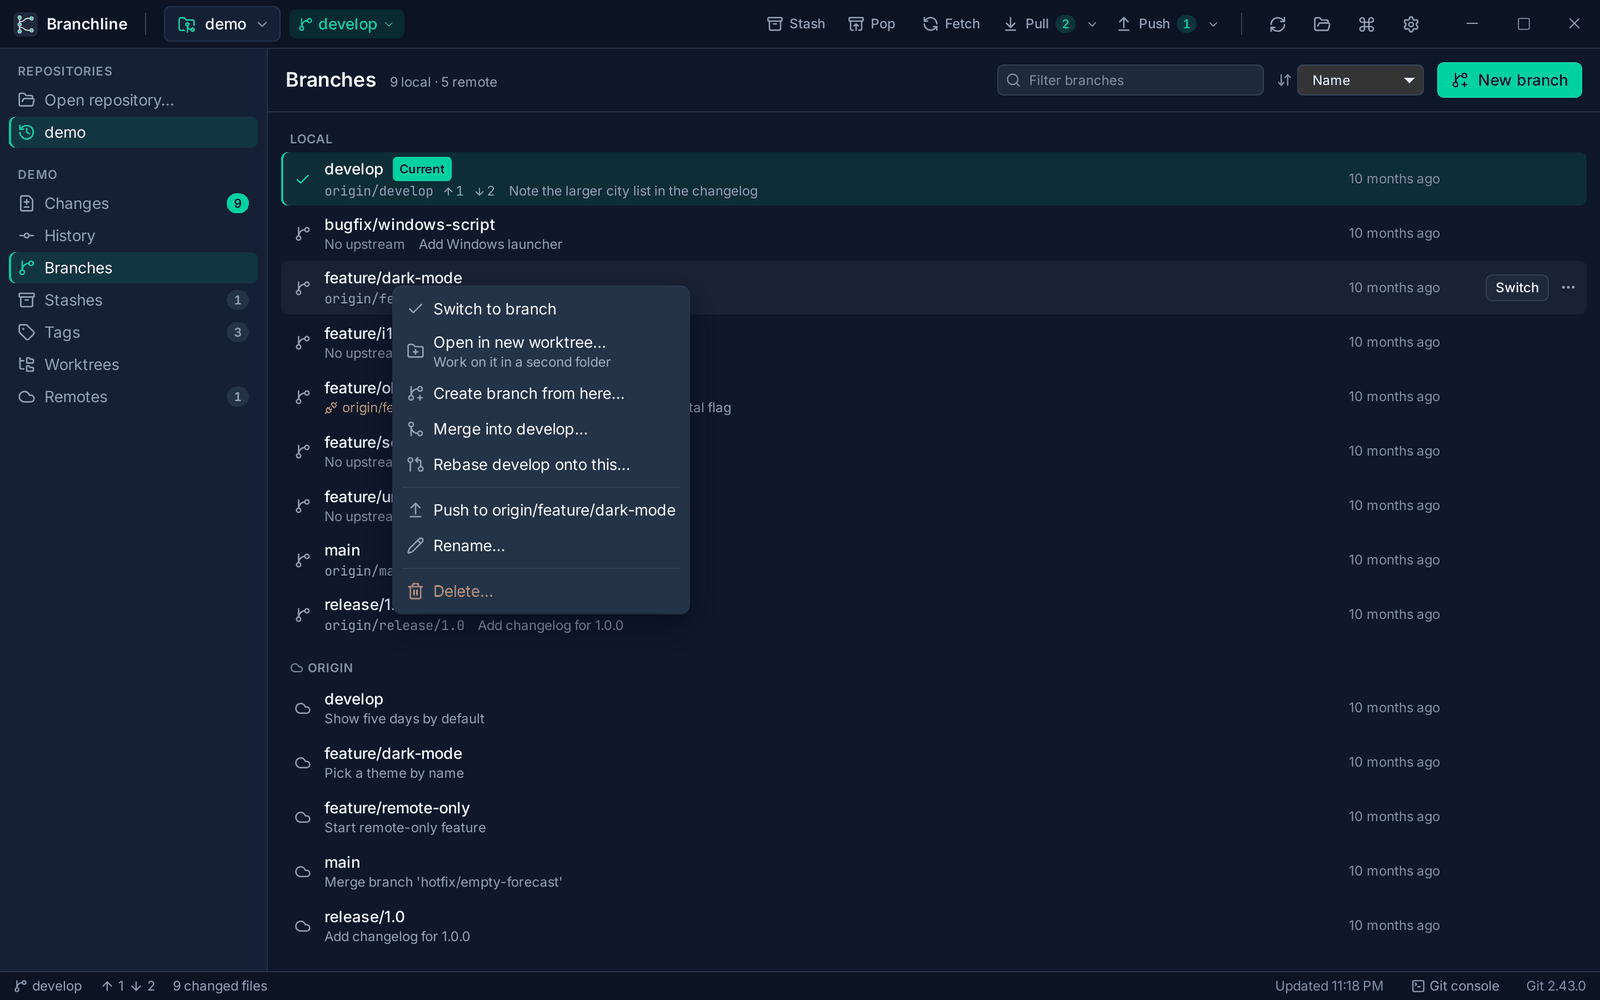
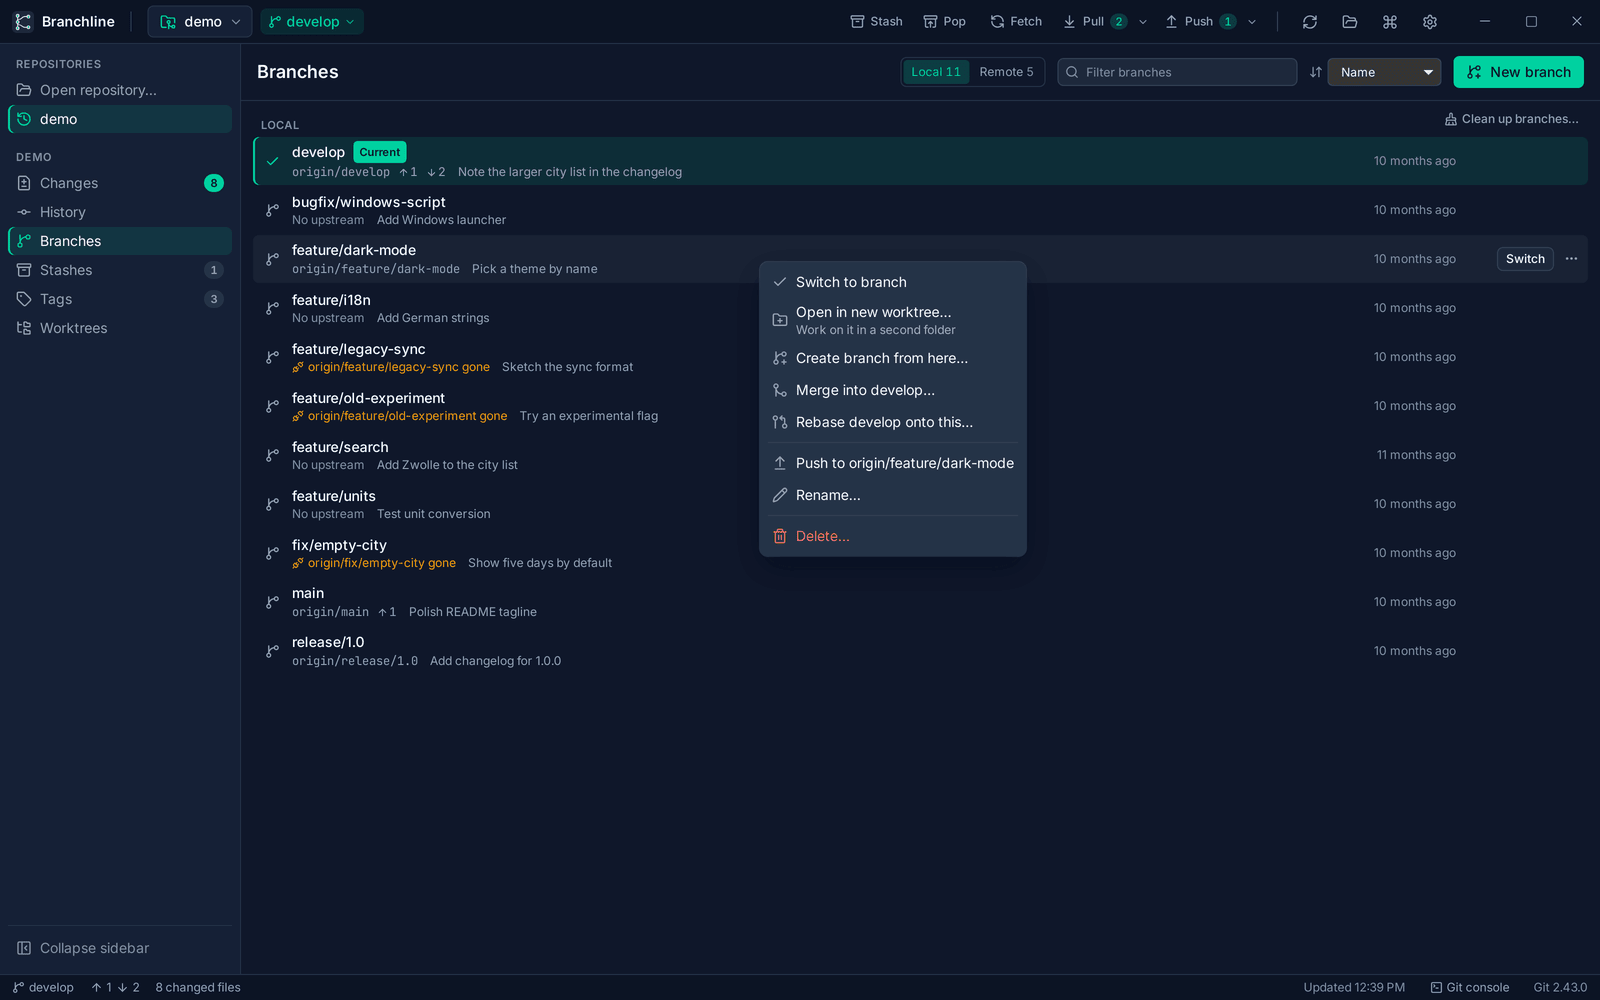
Update screenshots and README for 0.3.2
Retake the branches, quest, merge request, AI settings, commit box,
Git console and About screenshots, and add one of the Clean up
branches dialog. Describe the Local/Remote toggle, branch cleanup,
question counts, New questions and Restart in the README.

diff --git a/README.md b/README.md
@@ -56,13 +56,19 @@ action, branch and recent repository in a few letters.
 ### Branches and history, your way
 
 Create, switch, merge and rebase branches from a right-click, or drag one branch onto
-another. Clean up before you push with "Rewrite history": Branchline finds where your branch
-started, you drag commits into a new order and reword, squash or drop them, and squashed
-commits are shown grouped under the commit they go into. With AI on, it can suggest which
-commits belong together and write their messages.
+another. Switch between your local and remote branches with one toggle, and "Clean up
+branches" removes local branches whose upstream is gone once every commit is on the remote,
+with Undo; branches you never published stay. Tidy up before you push with "Rewrite
+history": Branchline finds where your branch started, you drag commits into a new order and
+reword, squash or drop them, and squashed commits are shown grouped under the commit they go
+into. With AI on, it can suggest which commits belong together and write their messages.
 
 <p align="center">
-  <img src="docs/screenshots/branches.png" alt="The Branches view with a branch menu open: switch, open in a new worktree, merge, rebase, push, rename and delete" width="49%">
+  <img src="docs/screenshots/branches.png" alt="The local branches with a branch menu open: switch, open in a new worktree, merge, rebase, push, rename and delete" width="49%">
+  <img src="docs/screenshots/branch-cleanup.png" alt="Clean up branches: two branches whose upstream was deleted are ready to delete, two with commits only on this computer are kept" width="49%">
+</p>
+
+<p align="center">
   <img src="docs/screenshots/rebase.png" alt="Rewrite history with an AI suggestion: two groups of fixed-up commits, each indented above the commit they go into, with a new message" width="49%">
 </p>
 
@@ -99,19 +105,22 @@ your system's password store. GitHub comes later.
 
 <p align="center">
   <img src="docs/screenshots/reviews.png" alt="The Reviews view with five merge requests waiting for review, showing their pipeline, comments, conflicts and approval" width="49%">
-  <img src="docs/screenshots/merge-request.png" alt="A merge request opened in Branchline: its changed files, two comment threads and the diff of api.py" width="49%">
+  <img src="docs/screenshots/merge-request.png" alt="A merge request opened in Branchline: its changed files, a comment thread on line 17, the Start review quest button and the diff of api.py" width="49%">
 </p>
 
 ### Review as a game, with an AI as game master
 
-Turn on AI and start a review quest: for every changed file the AI asks a few questions, from
-a quick quiz to "click the line that decides whether the cache is still fresh" to "what
-happens to memory when people look up many cities?". It responds to your answers, suggests
-review comments you can keep, and you earn points for thought and findings, never for speed.
-Play the same quest on your own branch before you open a merge request.
+Turn on AI and start a review quest: for every changed file the AI asks one to five
+questions, more for larger changes, from a quick quiz to "click the line that decides
+whether the cache is still fresh" to "what happens to memory when people look up many
+cities?". It responds to your answers, suggests review comments you can keep, and you earn
+points for thought and findings, never for speed. The questions for the next files are
+prepared while you play, and the number next to each file shows how many are waiting. Ask
+for new questions on a file, or restart the whole quest. Play the same quest on your own
+branch before you open a merge request.
 
 <p align="center">
-  <img src="docs/screenshots/quest.png" alt="A review quest: the AI responds to an open answer about the cache and suggests a review comment, above the diff of api.py, with 45 points earned" width="900">
+  <img src="docs/screenshots/quest.png" alt="A review quest: the AI responds to an open answer about the cache and suggests a review comment, above the diff of api.py, with 45 points earned and the number of questions next to each file" width="900">
 </p>
 
 ### Commit messages from the AI you choose
@@ -123,7 +132,7 @@ Only when you ask, and with AI turned off, no AI feature appears at all.
 
 <p align="center">
   <img src="docs/screenshots/ai-suggest.png" alt="A Conventional Commits message suggested for the staged changes, filled in the commit box" width="49%">
-  <img src="docs/screenshots/ai-settings.png" alt="The AI settings, connected to an Ollama server with a coding model chosen" width="49%">
+  <img src="docs/screenshots/ai-settings.png" alt="The AI settings, connected to an Ollama server with a coding model and context length chosen" width="49%">
 </p>
 
 ### Make it yours
@@ -134,7 +143,7 @@ Branchline lists every open-source package it is built with, with its license.
 
 <p align="center">
   <img src="docs/screenshots/settings.png" alt="The Editor and diff settings: external editor, terminal, diff layout, syntax highlighting, context lines, tab width and font size" width="49%">
-  <img src="docs/screenshots/about.png" alt="About Branchline with the version, the Bytefulminds logo and the first ten of 439 open-source packages and their licenses" width="49%">
+  <img src="docs/screenshots/about.png" alt="About Branchline with the version, the Bytefulminds logo and the first ten of 472 open-source packages and their licenses" width="49%">
 </p>
 
 And more: clone or create repositories, fetch, pull and push with live progress and Cancel,
